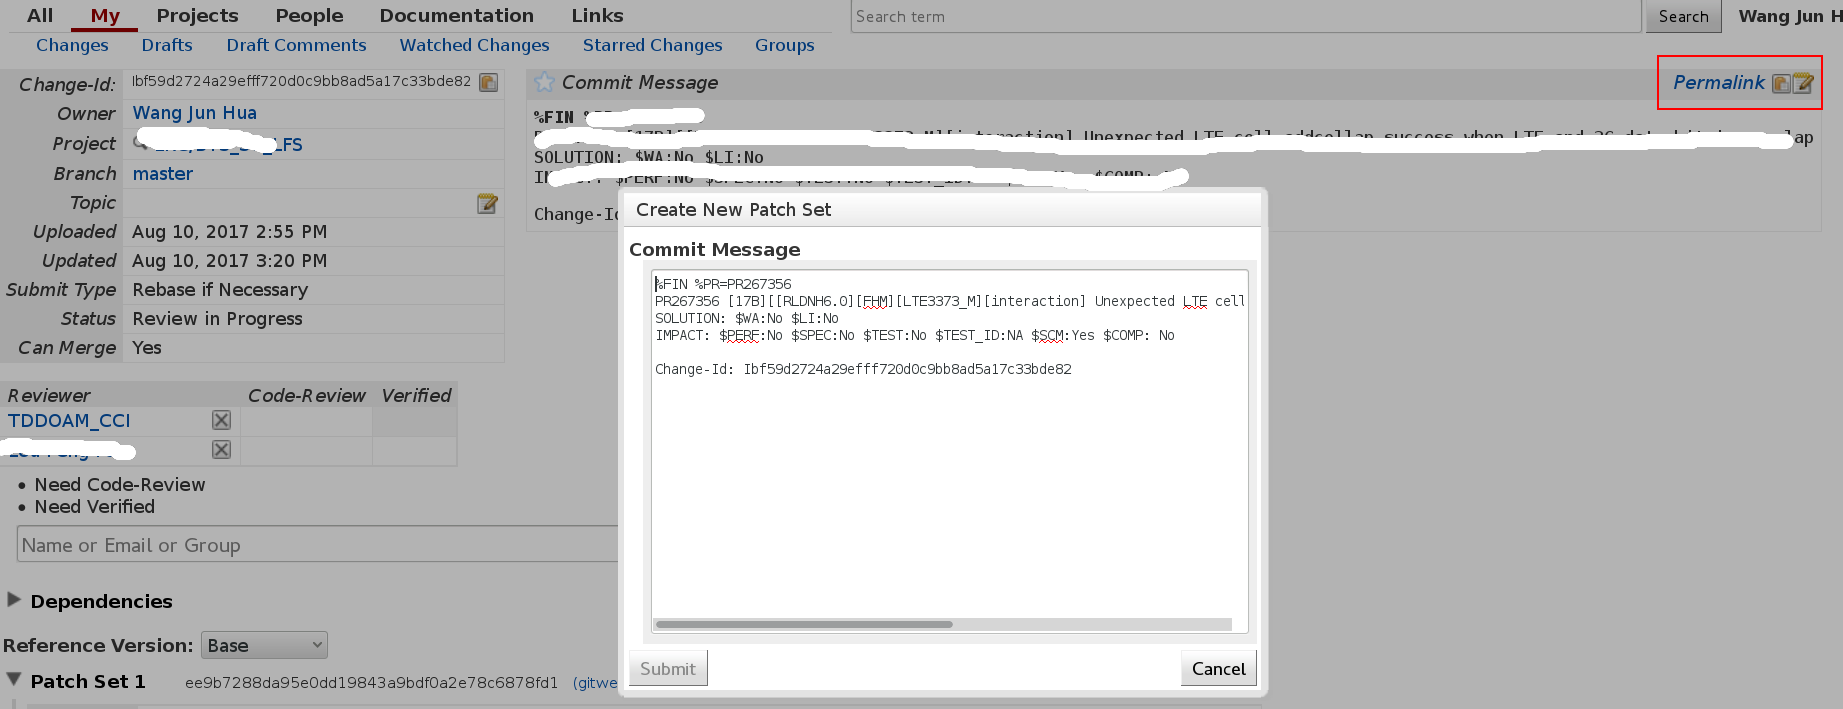
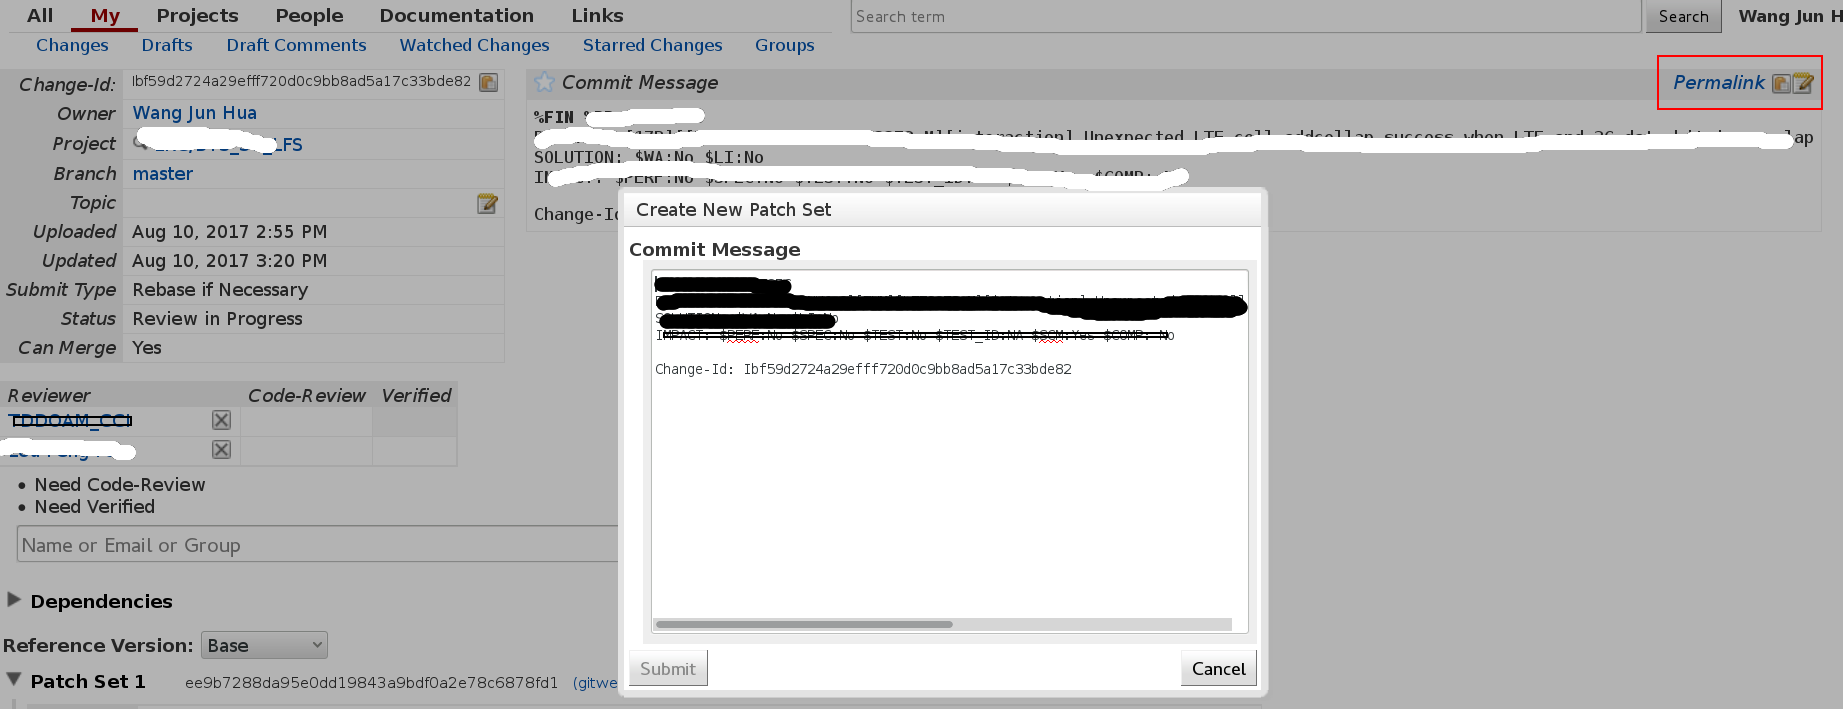
add change, update the image, remove the nokia related data

Changed region(s): [[0.3402, 0.3724, 0.6804, 0.4965]]

diff --git a/_posts/linux/2016-09-02-Linux-Use-Notes.md b/_posts/linux/2016-09-02-Linux-Use-Notes.md
@@ -435,3 +435,28 @@ shell script unit test framework
 ### OpenGrok
 
 OpenGrok is a source code search and cross reference engine. It helps programmers to search, cross-reference and navigate source code trees.
+
+
+### linux-gate.so.1
+
+当我们用ldd查看一个可执行文件依赖的动态库时, 会看到一个很奇怪的依赖库. 
+
+
+    20:51 junhuawa@Tesla:~/testchroot $ ldd mkimg
+        linux-gate.so.1 =>  (0xf77a2000)
+        libc.so.6 => /lib/libc.so.6 (0xf75bc000)
+        /lib/ld-linux.so.2 (0xf77a3000)
+
+这里linux-gate.so.1没有指向任何目录中的存储地址, 实际上, 这个不是一个真正的文件, 而是内核给每个进程地址空间map的共享对象, 叫
+virtual DSO: dynamically shared object. 
+用/proc/pid/maps可以看到该对象.
+
+    7f4891c4d000-7f4891db1000 rw-p 00000000 00:00 0                          [heap]
+    7ffc357df000-7ffc35800000 rw-p 00000000 00:00 0                          [stack]
+    7ffc359cf000-7ffc359d1000 r-xp 00000000 00:00 0                          [vdso]
+
+
+    root@FCTE:/proc >cat /proc/driver/rtc
+    rtc_time        : 02:40:35
+    rtc_date        : 2012-02-19
+    24hr            : yes

diff --git a/_posts/tools/2017-08-14-ftp.md b/_posts/tools/2017-08-14-ftp.md
@@ -1,0 +1,36 @@
+---
+layout: post
+title: "ftp"
+date: 2017-08-14
+category: "linux" 
+tags: [ftp]
+---
+
+#### ftp server(vsftpd) in linux env
+
+Very Secure FTP Daemon
+
+    [root@Tesla docomo-ps]# rpm -ql vsftpd
+    /etc/logrotate.d/vsftpd
+    /etc/pam.d/vsftpd
+    /etc/vsftpd
+    /etc/vsftpd/ftpusers
+    /etc/vsftpd/user_list
+    /etc/vsftpd/vsftpd.conf
+    /etc/vsftpd/vsftpd_conf_migrate.sh
+    /usr/lib/systemd/system-generators/vsftpd-generator
+    /usr/lib/systemd/system/vsftpd.service
+    /usr/lib/systemd/system/vsftpd.target
+    /usr/lib/systemd/system/vsftpd@.service
+    /usr/sbin/vsftpd
+
+其默认配置文件是: /etc/vsftpd/vsftpd.conf
+
+### chroot
+change root directory. 即程序使用的根目录将改为你指定的目录, 而不是默认的"/".
+如果在新的根目录下没有可执行的shell则会报错. 
+
+    [root@Tesla linux]# chroot /home/junhuawa/testchroot/ 
+    chroot: failed to run command ‘/bin/bash’: No such file or directory
+    [root@Tesla linux]# 
+

diff --git a/_posts/linux/2016-09-18-Virtual-Machine.md b/_posts/linux/2016-09-18-Virtual-Machine.md
@@ -47,5 +47,26 @@ Internal Network
     can't visit host.
 
 Host Only Adapter
-
+    就是说只有主机和VM之间的一个网络，需要先在主机上配置一张虚拟网卡,
+    再在VM的setting里配置Host Only Network, 这样即使没有连接网络,
+    host和VM之间也可以互相访问. 
     complicated
+
+#### Can not connect USB Stick to VM
+
+    Change the USB controller setting to USB 3.0 (xHCI) in your VM's settings. 
+
+#### VM配置Host Only Adapter
+
+#### VM 网络配置
+在安装VM时(尤其安装公司windows时), 需要用Bridged Network,
+通过cable连接到外部网络, 使虚拟机得到一个外部的IP地址. 
+
+
+安装好后, 一般给VM配置2张网卡, 一张网卡设置成NAT, 另一张设置成采用Host Only
+Adapter. 
+
+
+#### 安装CentOS虚拟机问题
+安装好后, 再安装GNOME Desktop, 重启后进不了Desktop, 直接黑屏， 查原因,
+是因为开了3D Acceleration, 将其Disable就好了. 

diff --git a/_posts/misc/2017-09-07-Bugs-Found-in-Work.md b/_posts/misc/2017-09-07-Bugs-Found-in-Work.md
@@ -1,0 +1,15 @@
+---
+layout: post
+title:  "Bugs found in work"
+date: 2017-09-07
+category: demo
+tags: [bugs]
+---
+
+#### `i++` is not needed 
+[image](../../images/cleancode/BugFoundByDawei.png)
+
+
+#### Semicolon is not needed
+[image](../../images/cleancode/CodingError-Semicolon-Not-Needed.png)
+
